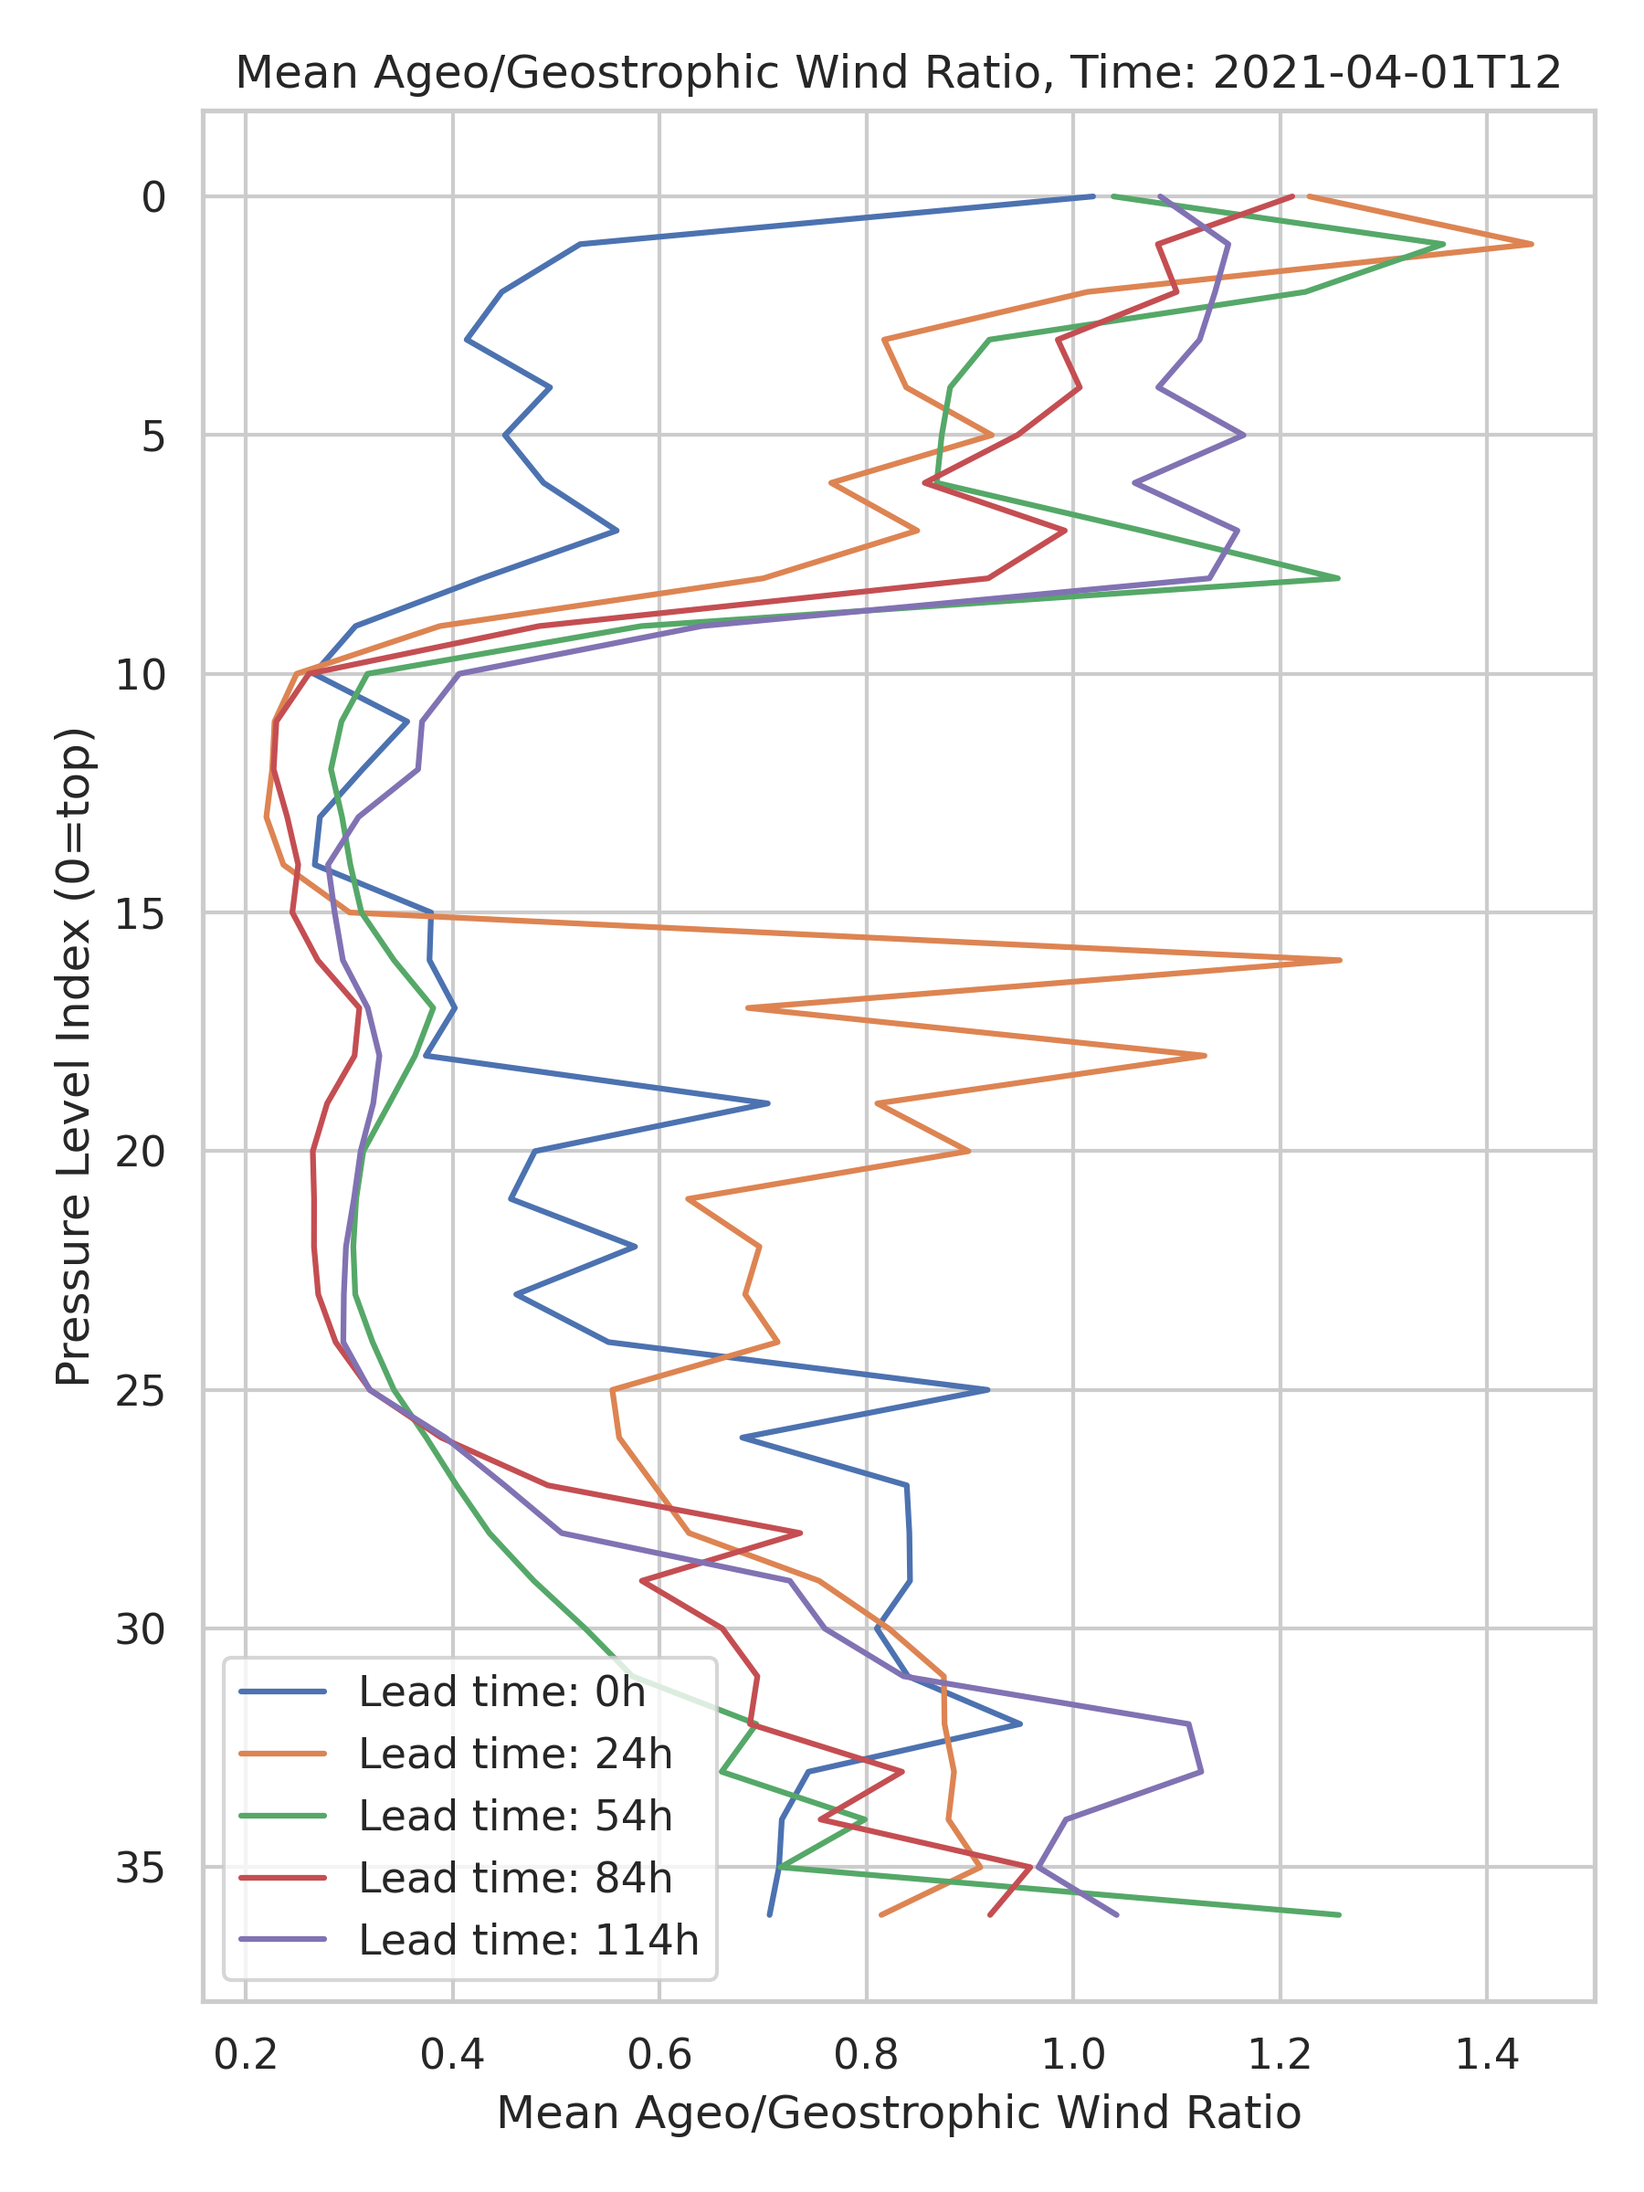
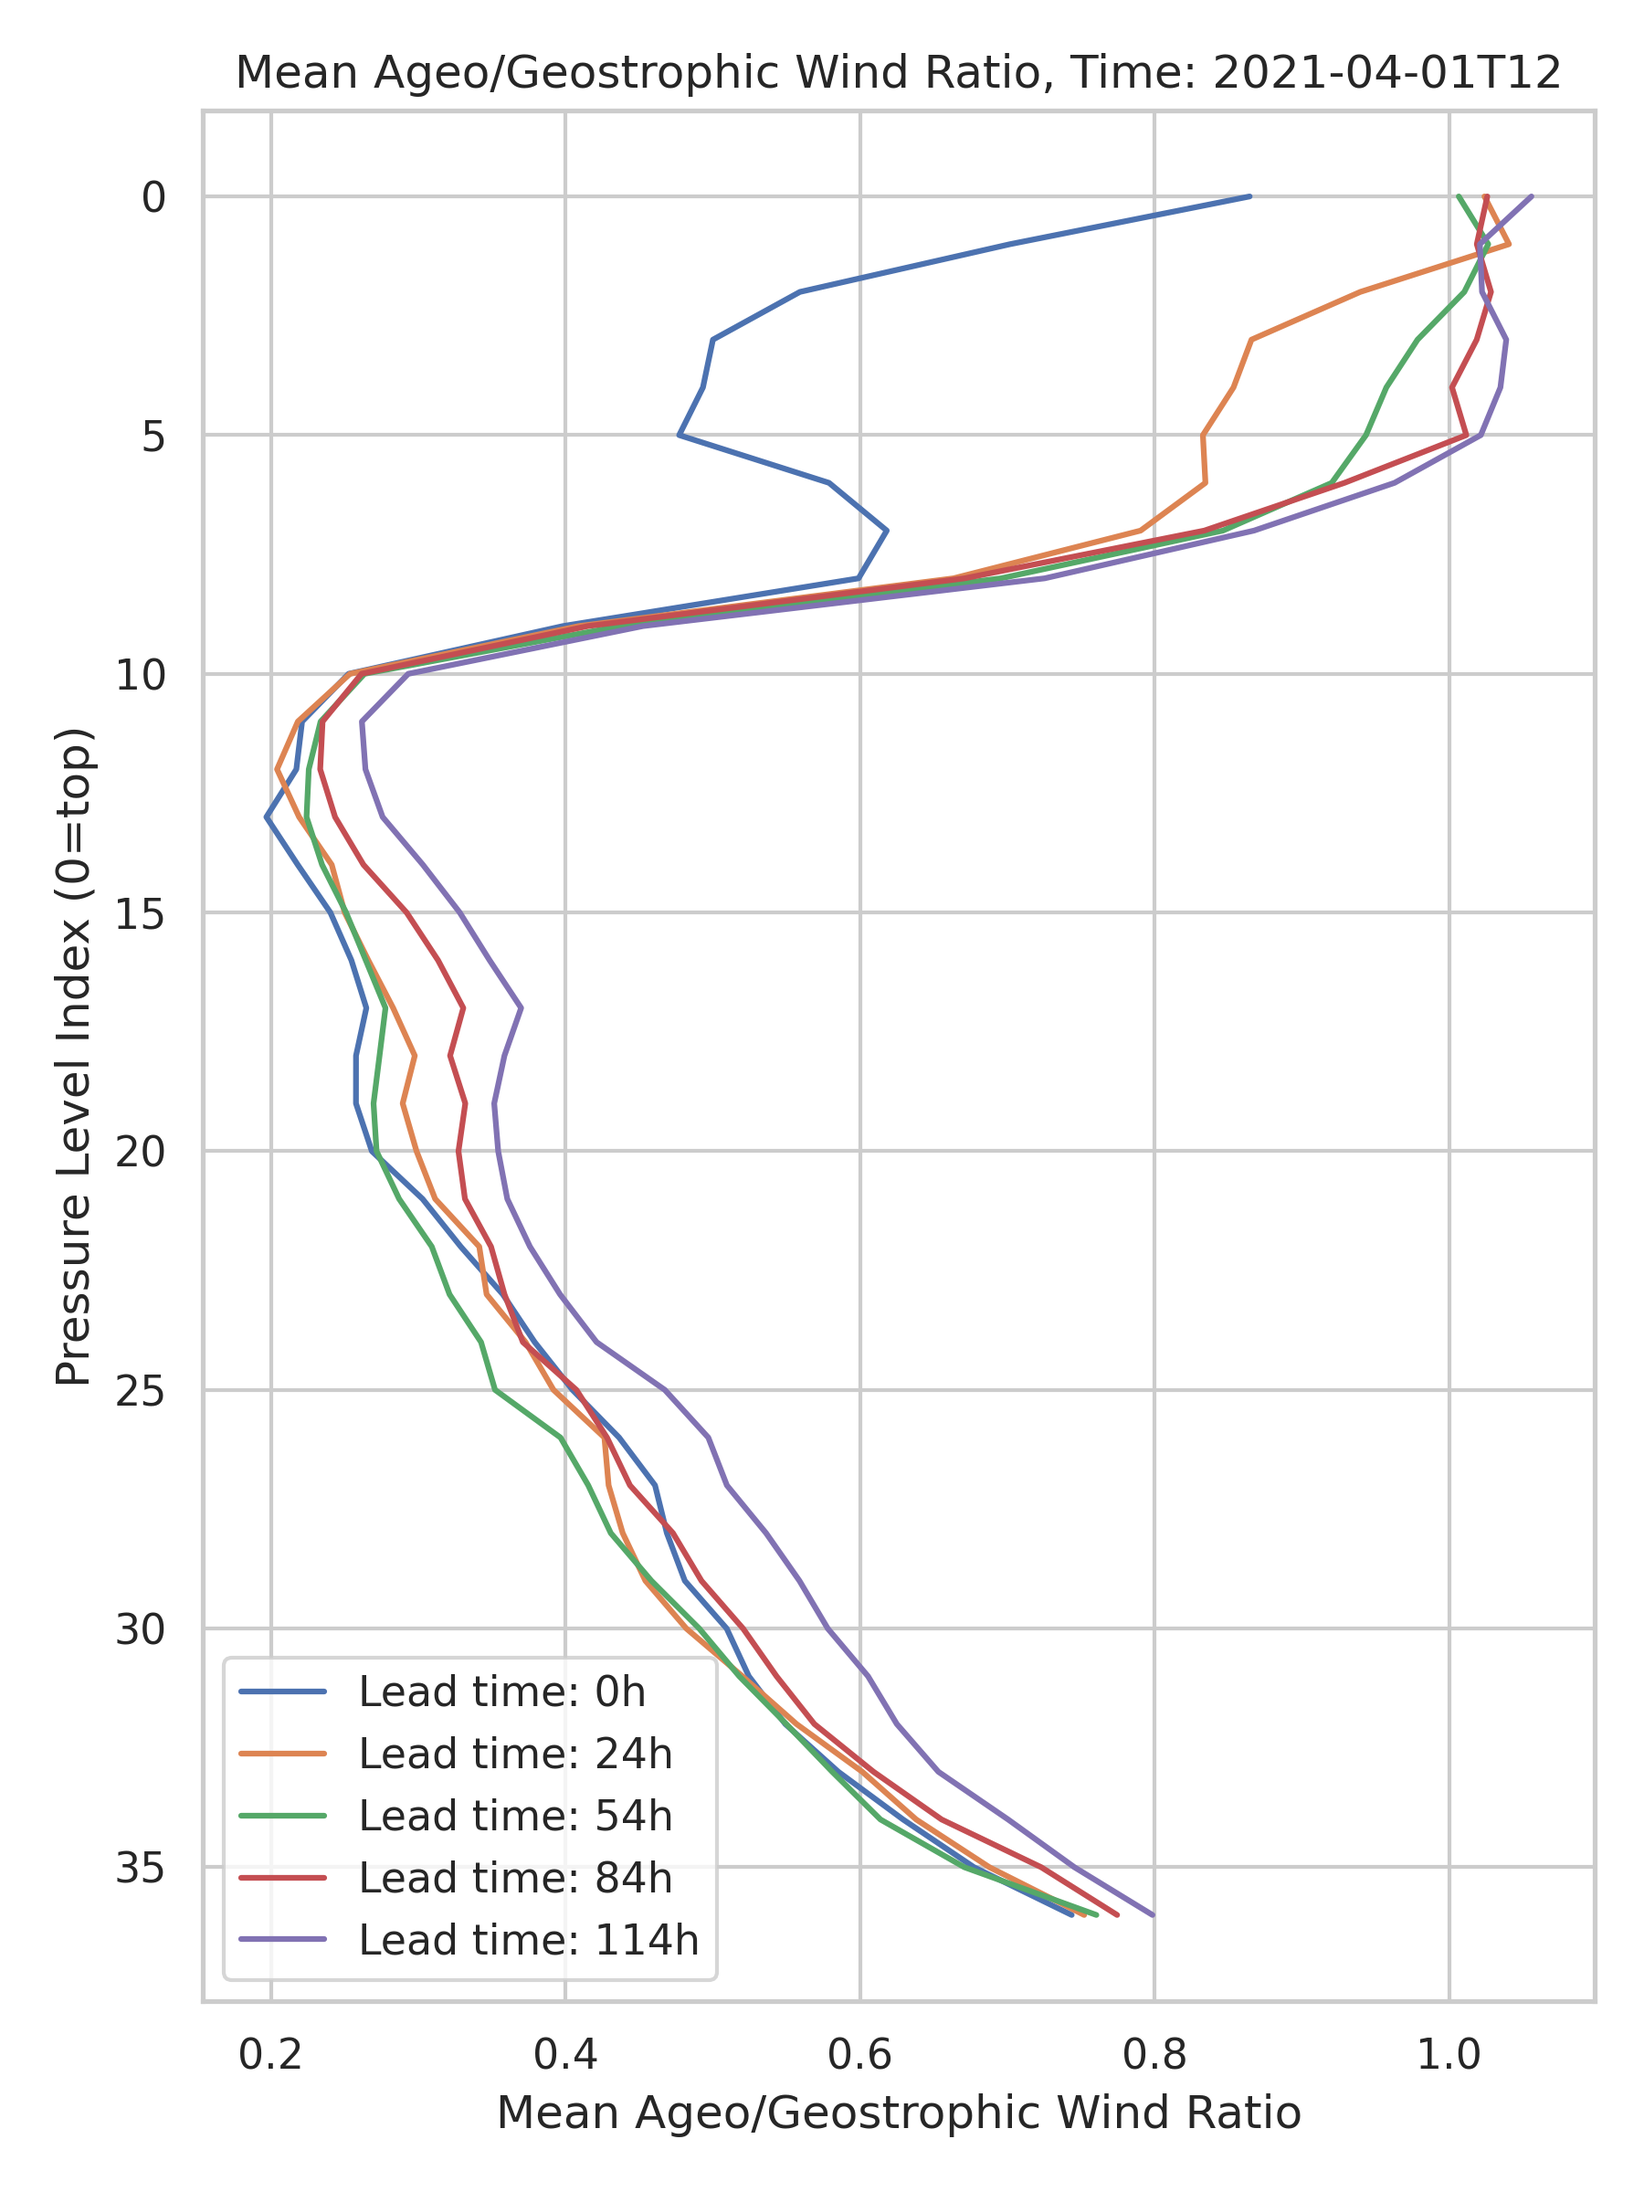
amend grid spacing, add smoothing operators, adjust plot colormap scaling

diff --git a/pace/metrics/operators.py b/pace/metrics/operators.py
@@ -1,0 +1,95 @@
+import torch
+from torch import nn
+from torch.nn import functional as F
+        
+
+def get_sobel_kernels():
+    
+    """Creates a pair of 2D Sobel kernels."""
+    
+    kernel_dx = torch.tensor([[-1, 0, 1],
+                              [-2, 0, 2],
+                              [-1, 0, 1]], dtype=torch.float32).unsqueeze(0).unsqueeze(0) / 8.0
+    kernel_dy = torch.tensor([[1, 2, 1],
+                              [0, 0, 0],
+                              [-1, -2, -1]], dtype=torch.float32).unsqueeze(0).unsqueeze(0) / 8.0
+    
+    return kernel_dx, kernel_dy
+
+def get_uniform_kernel(kernel_size=int):
+    
+    """Creates a 2D uniform kernel (box blur)."""
+    
+    kernel = torch.ones(kernel_size, kernel_size)
+    
+    return kernel / kernel.sum()
+
+def get_gaussian_kernel(kernel_size: int, sigma: float = 1.0):
+    
+    """Creates a 2D Gaussian kernel."""
+    
+    ax = torch.arange(-kernel_size // 2 + 1., kernel_size // 2 + 1.)
+    xx, yy = torch.meshgrid(ax, ax, indexing='xy')
+    kernel = torch.exp(-(xx**2 + yy**2) / (2. * sigma**2))
+    
+    return kernel / kernel.sum()
+
+import torch
+import torch.nn.functional as F
+
+def pad_finite_difference(phi: torch.Tensor, pad_width: tuple) -> torch.Tensor:
+    """
+    Pads a 4D tensor using iterative first-order finite difference extrapolation.
+
+    Args:
+        phi (torch.Tensor): The input tensor to pad, with shape (B, C, H, W).
+        pad_width (tuple): A tuple of 4 integers specifying the padding for the
+                           last two dimensions: (pad_left, pad_right, pad_top, pad_bottom).
+
+    Returns:
+        torch.Tensor: The padded tensor.
+    """
+    pad_left, pad_right, pad_top, pad_bottom = pad_width
+    
+    # Create a new tensor with the padded size (initially with zeros)
+    padded_phi = F.pad(phi, pad_width)
+    
+    # --- Step 1: Pad Left and Right (Horizontal Extrapolation) ---
+    v_slice = slice(pad_top, -pad_bottom if pad_bottom > 0 else None)
+
+    # Pad Left iteratively
+    for i in range(pad_left):
+        col_to_fill = pad_left - 1 - i
+        col_source1 = col_to_fill + 1
+        col_source2 = col_to_fill + 2
+        padded_phi[..., v_slice, col_to_fill] = \
+            2 * padded_phi[..., v_slice, col_source1] - padded_phi[..., v_slice, col_source2]
+
+    # Pad Right iteratively
+    for i in range(pad_right):
+        col_to_fill = padded_phi.shape[-1] - pad_right + i
+        col_source1 = col_to_fill - 1
+        col_source2 = col_to_fill - 2
+        padded_phi[..., v_slice, col_to_fill] = \
+            2 * padded_phi[..., v_slice, col_source1] - padded_phi[..., v_slice, col_source2]
+
+    # --- Step 2: Pad Top and Bottom (Vertical Extrapolation) ---
+    # This step uses the already horizontally-padded tensor.
+
+    # Pad Top iteratively
+    for i in range(pad_top):
+        row_to_fill = pad_top - 1 - i
+        row_source1 = row_to_fill + 1
+        row_source2 = row_to_fill + 2
+        padded_phi[..., row_to_fill, :] = \
+            2 * padded_phi[..., row_source1, :] - padded_phi[..., row_source2, :]
+            
+    # Pad Bottom iteratively
+    for i in range(pad_bottom):
+        row_to_fill = padded_phi.shape[-2] - pad_bottom + i
+        row_source1 = row_to_fill - 1
+        row_source2 = row_to_fill - 2
+        padded_phi[..., row_to_fill, :] = \
+            2 * padded_phi[..., row_source1, :] - padded_phi[..., row_source2, :]
+
+    return padded_phi

diff --git a/pace/metrics/geostrophic.py b/pace/metrics/geostrophic.py
@@ -6,10 +6,17 @@ import torch
 import torch.nn as nn
 import torch.nn.functional as F
 
+from .operators import (
+    get_sobel_kernels,
+    get_uniform_kernel,
+    get_gaussian_kernel,
+    pad_finite_difference,
+)
+
 # import metpy
 
 class GeostrophicWind(nn.Module):
-    def __init__(self, grid, epsilon=1e-5):
+    def __init__(self, grid, epsilon=1e-5, smoothing='gaussian'):
         super().__init__()
         
                 
@@ -21,15 +28,21 @@ class GeostrophicWind(nn.Module):
         self.epsilon = epsilon
 
         # Sobel kernels
-        kernel_dx = torch.tensor([[-1, 0, 1],
-                                  [-2, 0, 2],
-                                  [-1, 0, 1]], dtype=torch.float32).unsqueeze(0).unsqueeze(0) / 8.0
-        kernel_dy = torch.tensor([[1, 2, 1],
-                                  [0, 0, 0],
-                                  [-1, -2, -1]], dtype=torch.float32).unsqueeze(0).unsqueeze(0) / 8.0
-        
+        kernel_dx, kernel_dy = get_sobel_kernels()
         self.register_buffer("kernel_dx", kernel_dx)
         self.register_buffer("kernel_dy", kernel_dy)
+        
+        # Currently hard-coded for 0.25° -> 2°
+        if smoothing=='uniform':
+            self.pad = (1, 2, 1, 2)
+            self.register_buffer('smoothing_kernel', get_uniform_kernel(kernel_size=4))
+        elif smoothing=='gaussian':
+            self.pad = (4, 4, 4, 4)
+            self.register_buffer('smoothing_kernel', get_gaussian_kernel(kernel_size=9, sigma=1.25))
+        else:
+            self.pad = (1, 2, 1, 2)
+            self.register_buffer('smoothing_kernel', get_uniform_kernel(kernel_size=4))
+        
 
     def compute_geostrophic(self, sample):
         
@@ -37,24 +50,24 @@ class GeostrophicWind(nn.Module):
         
         # Ensure 4D shape [B, C, H, W]
         shape = phi.shape
-        print('pre_pad', shape)
         while len(phi.shape) < 4:
             phi = phi.unsqueeze(0)
 
         # Padding before convolution (to preserve size)
-        phi = F.pad(phi, (1, 1, 1, 1), mode='replicate')
+        # phi = F.pad(phi, (1, 1, 1, 1), mode='replicate')
+        phi = pad_finite_difference(phi, pad_width=(2,2,2,2))
 
         # Compute gradients using Sobel filters
         dphi_dx = F.conv2d(
             phi, 
             self.kernel_dx.repeat(shape[-3], 1, 1, 1),
             groups=shape[-3],
-        ) / self.dx
+        )[..., 1:-1, 1:-1] / self.dx
         dphi_dy = F.conv2d(
             phi, 
             self.kernel_dy.repeat(shape[-3], 1, 1, 1),
             groups=shape[-3],
-        ) / self.dy
+        )[..., 1:-1, 1:-1] / self.dy
 
         # Geostrophic wind equations
         u_g = dphi_dy / self.f
@@ -90,6 +103,11 @@ class GeostrophicWind(nn.Module):
         mag_ageo = torch.sqrt(u_ag**2 + v_ag**2)
 
         ratio = mag_ageo / (mag_geo + self.epsilon)
+                
+        kernel = self.smoothing_kernel.repeat(ratio.shape[-3], 1, 1, 1).to(ratio.dtype)
+        
+        ratio = F.pad(ratio, self.pad, 'replicate')
+        ratio = F.conv2d(ratio, kernel, groups=ratio.shape[-3], padding=0)
         
         return ratio
                 

diff --git a/pace/utils/dataset.py b/pace/utils/dataset.py
@@ -7,6 +7,8 @@ import xarray as xr
 from pathlib import Path
 from datetime import datetime
 
+R_EARTH = 6371000.0
+OMEGA = 7.2921e-5
 
 def inspect_nc(path):
     with xr.open_dataset(path) as ds:
@@ -44,13 +46,17 @@ def get_grid(path, lat_range=None, lon_range=None):
         lon_min, lon_max = sorted(lon_range)
         lons = lons[(lons >= lon_min) & (lons <= lon_max)]
 
-    cos_lat = np.cos(np.deg2rad(lats))
-    dy = (np.gradient(lats))[:, None] * np.ones_like(lons)[None, :] * 111.32e3
-    omega = 7.2921e-5
-    f = 2 * omega * np.sin(np.deg2rad(lats))[:, None] * np.ones_like(lons)[None, :]
+    dlat_deg = np.gradient(lats)
+    dlon_deg = np.gradient(np.concatenate([[lons[-1]-360], lons, [lons[0]+360]]))[1:-1]
+    dphi = np.deg2rad(dlat_deg)
+    dlambda = np.deg2rad(dlon_deg)
+    
+    dy = R_EARTH * dphi
+    dy = dy[:, None] * np.ones_like(lons)[None, :]
+    dx = R_EARTH * np.cos(np.deg2rad(lats))[:, None] * dlambda[None, :]
+    
+    f = 2 * OMEGA * np.sin(np.deg2rad(lats))[:, None] * np.ones_like(lons)[None, :]
     f[np.abs(f) < 1e-5] = 1e-5 * np.sign(f[np.abs(f) < 1e-5] + 1e-9)
-    dx = np.gradient(np.concatenate([[lons[-1]-360], lons, [lons[0]+360]]))[1:-1]
-    dx = dx[None, :] * np.cos(np.deg2rad(lats))[:, None] * 111.32e3
 
     return {
         'lon': torch.tensor(lons),

diff --git a/pace/postprocess.py b/pace/postprocess.py
@@ -1,7 +1,8 @@
 import os
-import xarray as xr
-import matplotlib.pyplot as plt
 import numpy as np
+import xarray as xr
+import matplotlib.colors as colors
+import matplotlib.pyplot as plt
 
 # Optional: Seaborn for prettier plots
 import seaborn as sns
@@ -36,7 +37,7 @@ def plot_metric_level_slice(ds, metric, level_index, show_geopotential=True):
     Lon, Lat = np.meshgrid(lon, lat)
 
     plt.figure(figsize=(12, 5))
-    plt.pcolormesh(Lon, Lat, data, cmap='viridis', shading='auto', vmax=10)
+    plt.pcolormesh(Lon, Lat, data, cmap='Grays', norm=colors.LogNorm(vmin=1e-2, vmax=10), shading='auto')
     plt.colorbar(label='Ageostrophic / Geostrophic Wind Magnitude', )
 
      # Add geopotential contours if requested and available
@@ -109,7 +110,7 @@ def process_metric(metric, datasets):
     for i, ds in enumerate(datasets):
         if metric not in ds:
             continue
-        # plot_metric_level_slice(ds, metric, level_index=36)
+        plot_metric_level_slice(ds.isel(lead_time=0), metric, level_index=15)
         plot_mean_geostrophic_wind_profile(ds) 
 
 if __name__ == "__main__":
